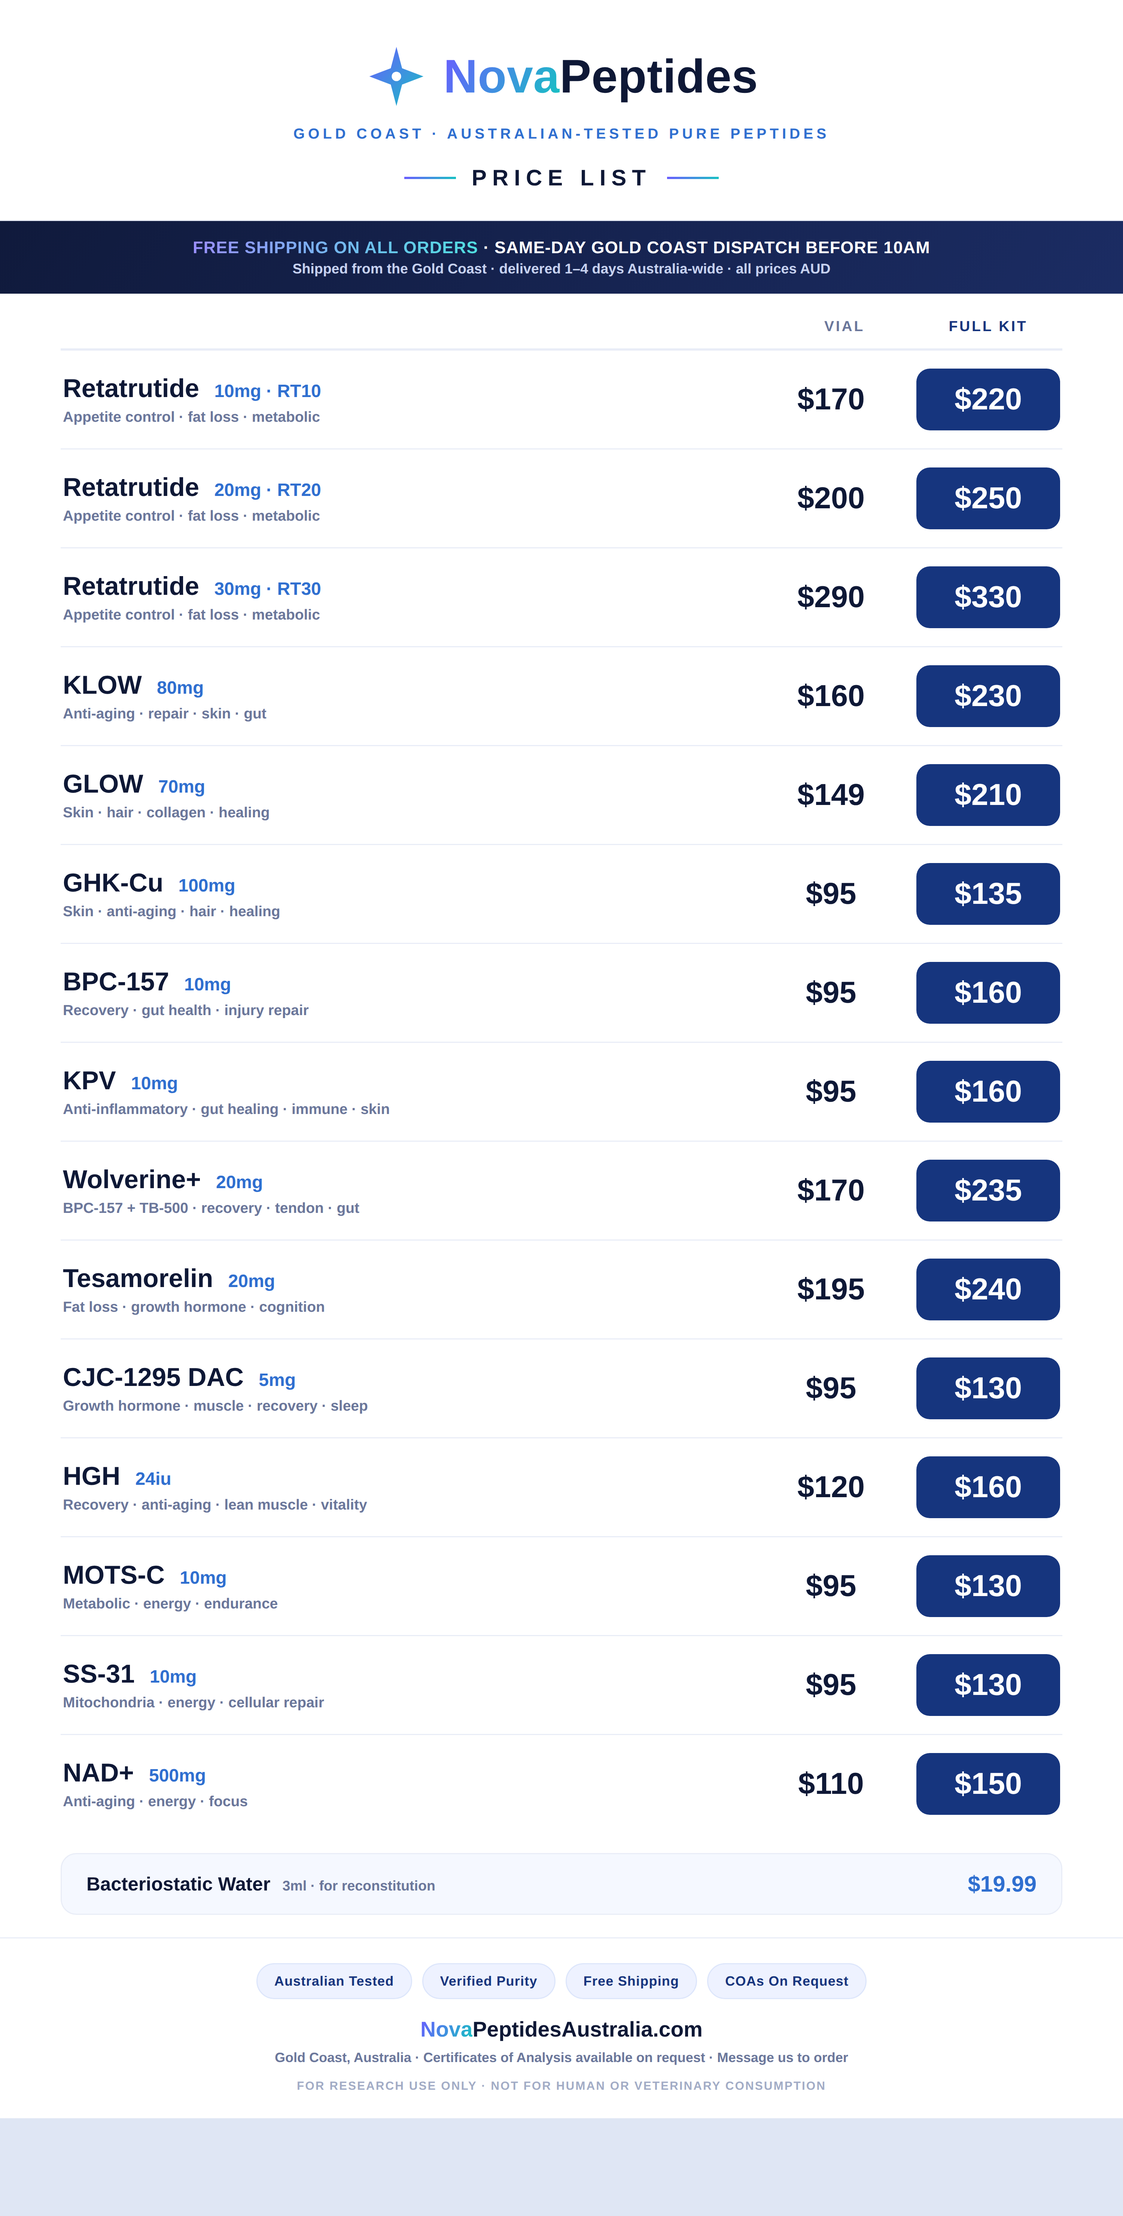
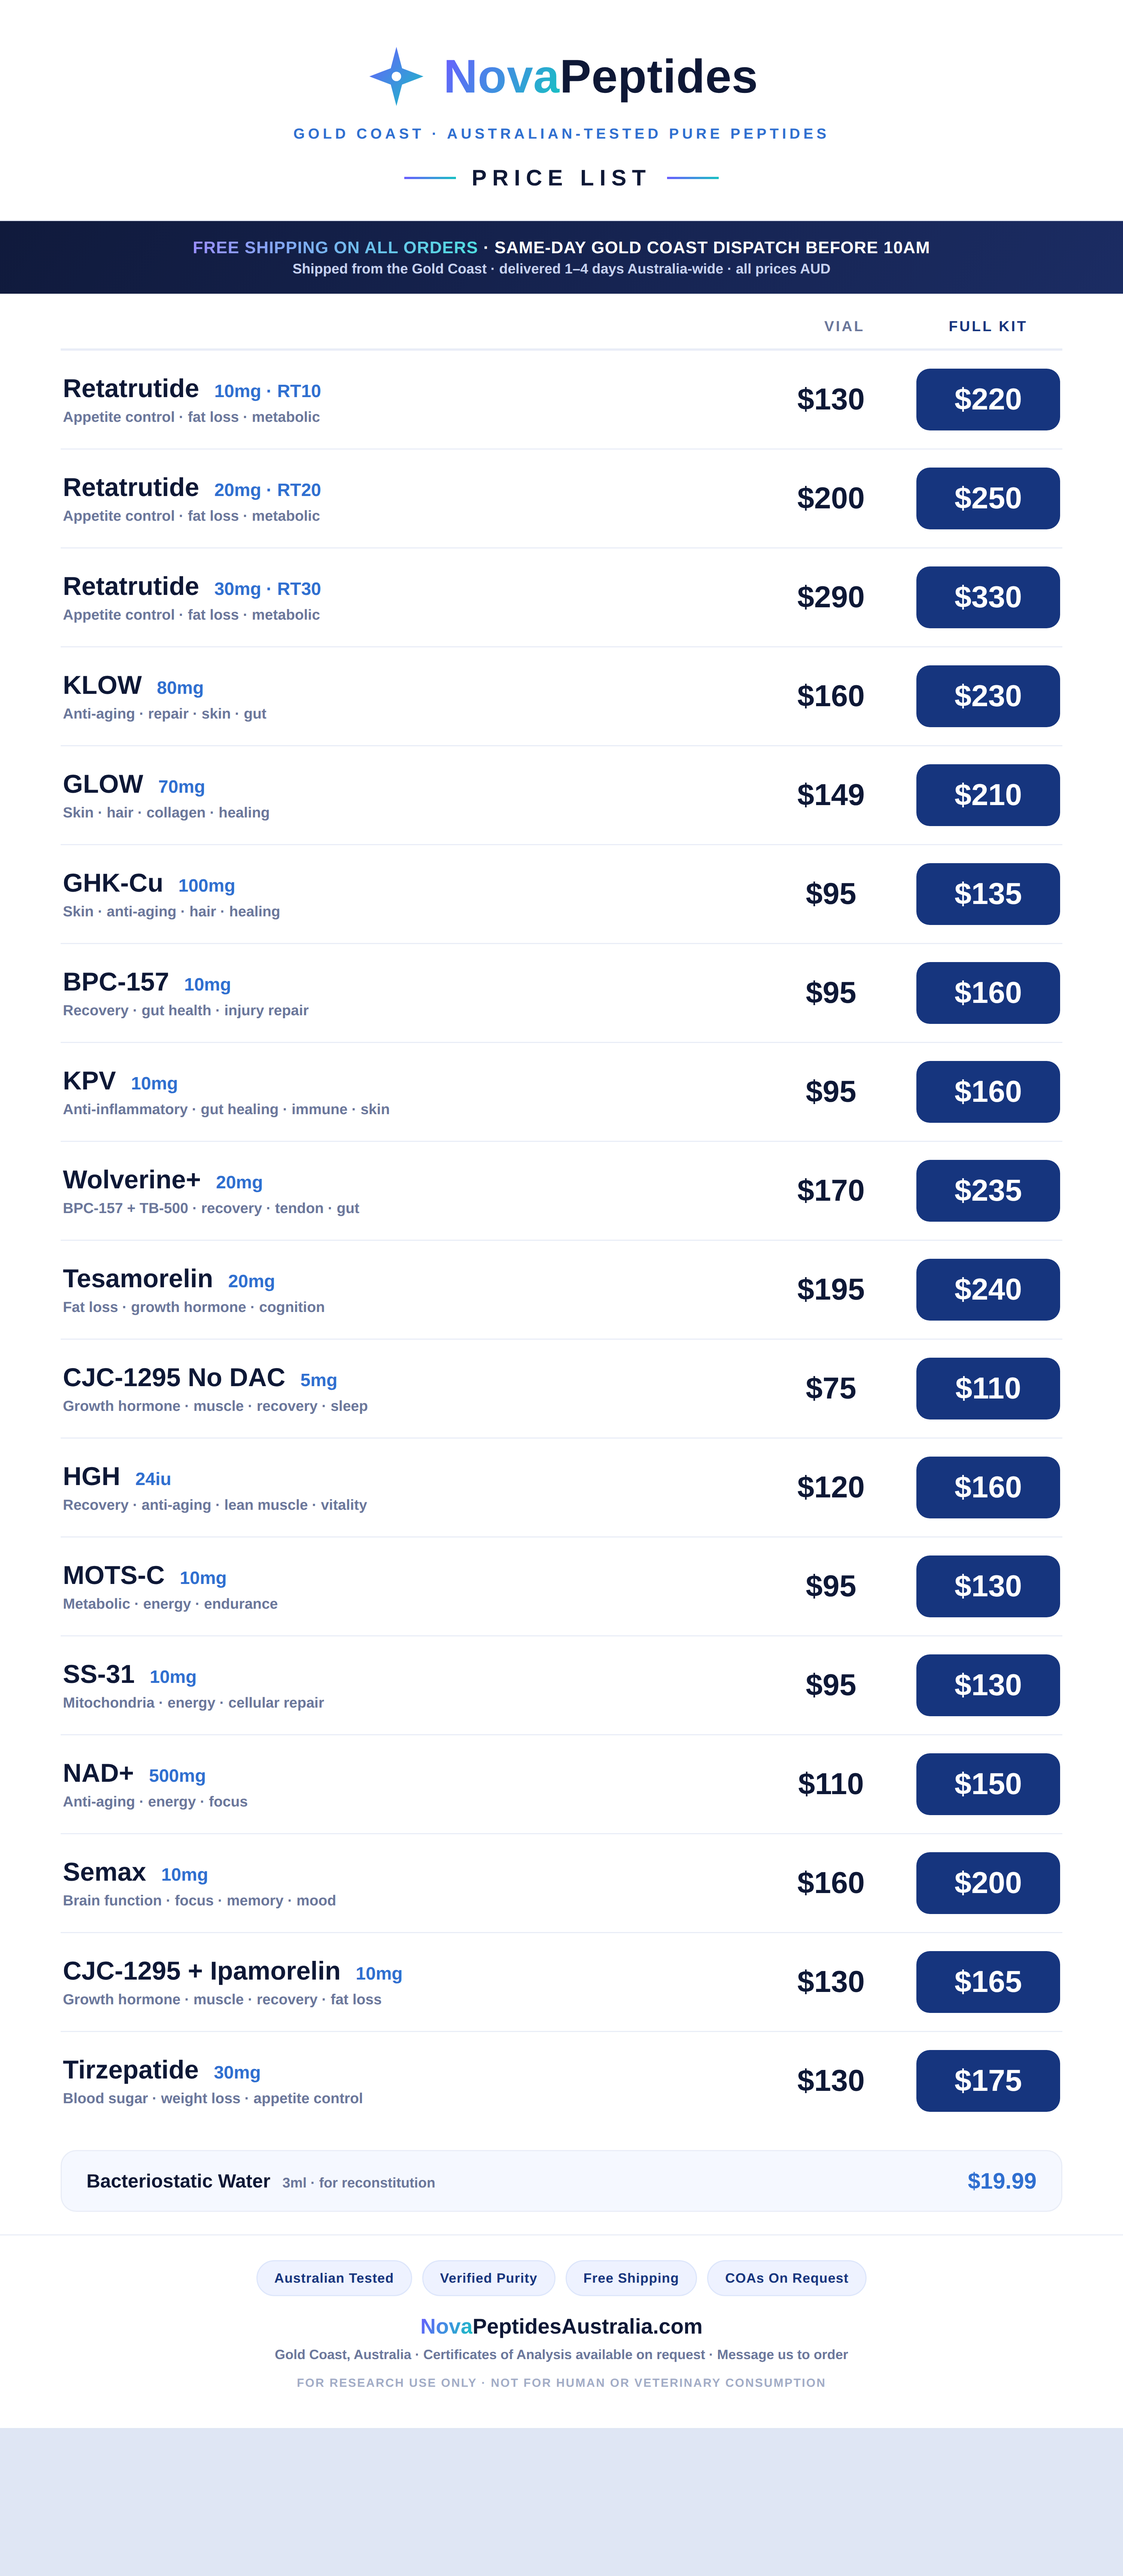
NovaPeptides white price list: Reta 10mg $130, CJC-1295 No DAC $75/$110, add Semax, CJC+Ipamorelin, Tirzepatide
Claude-Session: https://claude.ai/code/session_011vwkpM9KQ6PKS1DsXGJwTK

Changed region(s): [[0.0, 0.0, 1.0, 0.9642], [0.713, 0.2799, 0.775, 0.8087], [0.868, 0.8398, 0.93, 0.8709]]

diff --git a/pricing/price-list-white.html b/pricing/price-list-white.html
@@ -83,7 +83,7 @@
       <div class="colh"><span class="sp"></span><div class="c">Vial</div><div class="c k">Full Kit</div></div>
 
       <div class="row"><div class="info"><div class="nm">Retatrutide <span class="mg">10mg &middot; RT10</span></div><div class="ben">Appetite control &middot; fat loss &middot; metabolic</div></div>
-        <div class="prices"><div class="cell vial"><div class="v">$170</div></div><div class="cell kit"><div class="v">$220</div></div></div></div>
+        <div class="prices"><div class="cell vial"><div class="v">$130</div></div><div class="cell kit"><div class="v">$220</div></div></div></div>
 
       <div class="row"><div class="info"><div class="nm">Retatrutide <span class="mg">20mg &middot; RT20</span></div><div class="ben">Appetite control &middot; fat loss &middot; metabolic</div></div>
         <div class="prices"><div class="cell vial"><div class="v">$200</div></div><div class="cell kit"><div class="v">$250</div></div></div></div>
@@ -112,8 +112,8 @@
       <div class="row"><div class="info"><div class="nm">Tesamorelin <span class="mg">20mg</span></div><div class="ben">Fat loss &middot; growth hormone &middot; cognition</div></div>
         <div class="prices"><div class="cell vial"><div class="v">$195</div></div><div class="cell kit"><div class="v">$240</div></div></div></div>
 
-      <div class="row"><div class="info"><div class="nm">CJC-1295 DAC <span class="mg">5mg</span></div><div class="ben">Growth hormone &middot; muscle &middot; recovery &middot; sleep</div></div>
-        <div class="prices"><div class="cell vial"><div class="v">$95</div></div><div class="cell kit"><div class="v">$130</div></div></div></div>
+      <div class="row"><div class="info"><div class="nm">CJC-1295 No DAC <span class="mg">5mg</span></div><div class="ben">Growth hormone &middot; muscle &middot; recovery &middot; sleep</div></div>
+        <div class="prices"><div class="cell vial"><div class="v">$75</div></div><div class="cell kit"><div class="v">$110</div></div></div></div>
 
       <div class="row"><div class="info"><div class="nm">HGH <span class="mg">24iu</span></div><div class="ben">Recovery &middot; anti-aging &middot; lean muscle &middot; vitality</div></div>
         <div class="prices"><div class="cell vial"><div class="v">$120</div></div><div class="cell kit"><div class="v">$160</div></div></div></div>
@@ -126,6 +126,15 @@
 
       <div class="row"><div class="info"><div class="nm">NAD+ <span class="mg">500mg</span></div><div class="ben">Anti-aging &middot; energy &middot; focus</div></div>
         <div class="prices"><div class="cell vial"><div class="v">$110</div></div><div class="cell kit"><div class="v">$150</div></div></div></div>
+
+      <div class="row"><div class="info"><div class="nm">Semax <span class="mg">10mg</span></div><div class="ben">Brain function &middot; focus &middot; memory &middot; mood</div></div>
+        <div class="prices"><div class="cell vial"><div class="v">$160</div></div><div class="cell kit"><div class="v">$200</div></div></div></div>
+
+      <div class="row"><div class="info"><div class="nm">CJC-1295 + Ipamorelin <span class="mg">10mg</span></div><div class="ben">Growth hormone &middot; muscle &middot; recovery &middot; fat loss</div></div>
+        <div class="prices"><div class="cell vial"><div class="v">$130</div></div><div class="cell kit"><div class="v">$165</div></div></div></div>
+
+      <div class="row"><div class="info"><div class="nm">Tirzepatide <span class="mg">30mg</span></div><div class="ben">Blood sugar &middot; weight loss &middot; appetite control</div></div>
+        <div class="prices"><div class="cell vial"><div class="v">$130</div></div><div class="cell kit"><div class="v">$175</div></div></div></div>
     </div>
 
     <div class="bac"><div class="n">Bacteriostatic Water <span>3ml &middot; for reconstitution</span></div><div class="v">$19.99</div></div>
